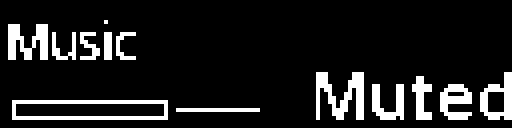
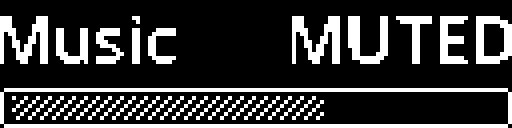
Document the screen style setting and the screen motion
Add [screen] style to the configuration reference, settings byte 20 to
the protocol, and a glossary entry. Replace the text that still said the
screen does not move, update the changelog, record the owner's pad test
of the screen on 2026-11-14, and draw the README pictures in the default
Classic style.

diff --git a/docs/testing.md b/docs/testing.md
@@ -9,7 +9,7 @@ For the definition of each term, see [glossary.md](glossary.md).
 | Test suite | Folder | What it checks | Runs in CI |
 |---|---|---|---|
 | Protocol tests | `protocol/` | The bytes of each message, encode and decode, the version format | Yes |
-| Firmware host tests | `pad-core/` | The firmware logic without hardware: key and knob decoding, the routing of keys and knobs, the keyboard report (`tests/keyboard.rs`), the idle rule, the lights and their motion (`tests/lights.rs`), the screens (`tests/oracle.rs` compares only the screens at rest), the flash guard and the order of its steps with a fake flash controller (`tests/flash.rs`), the name page and its write limit, the bootloader marks and their order | Yes |
+| Firmware host tests | `pad-core/` | The firmware logic without hardware: key and knob decoding, the routing of keys and knobs, the keyboard report (`tests/keyboard.rs`), the idle rule, the lights and their motion (`tests/lights.rs`), the screens (`tests/oracle.rs` compares the Classic screens at rest and the logo with the earlier code), the flash guard and the order of its steps with a fake flash controller (`tests/flash.rs`), the name page and its write limit, the bootloader marks and their order | Yes |
 | Firmware image check | `scripts/build-firmware.sh` | The vector table, the interrupts and the size of the firmware image | Yes |
 | App tests | `app/` | The config file, the trim rules, the key actions, the tap, hold and double-tap rules, the choice of the output device, the pad link, the settings rules | Yes |
 | Forbidden API test | `app/tests/forbidden_apis.rs` | The app source, `Cargo.toml` and `Cargo.lock` contain no hook, input injection, process access or network API | Yes |
@@ -152,7 +152,7 @@ This table records the tests on a pad. The only test pad is one KB16-01 rev2 wit
 "VERIFIED" means that a person did the action on the pad and saw the result.
 "NOT YET VERIFIED" means that nobody did the action on a pad. Automated tests can cover the logic.
 
-The test pad has the firmware of the internal version 0.1.0. At this time, nobody did a test of version 0.2.0 on a pad.
+On 2026-11-14, the pad owner used a build of the branch `screen-styles` (version 0.2.0 and the unreleased changes) on the test pad. The owner approved its screen. There is no written test record. Nobody did a test of the published version 0.2.0 on a pad.
 
 | Feature | How it was verified | Date | Firmware version | Status |
 |---|---|---|---|---|
@@ -160,6 +160,7 @@ The test pad has the firmware of the internal version 0.1.0. At this time, nobod
 | Mute row | Manual use on the pad. There is no written test record. | Before 2026-11-11 (no exact date in the record) | An earlier build, before the internal version 0.1.0 | VERIFIED |
 | Key light and screen output | Manual use on the pad. There is no written test record. | Before 2026-11-11 (no exact date in the record) | An earlier build, before the internal version 0.1.0 | VERIFIED |
 | Recovery with the top-left key at plug-in | Manual use on the pad. There is no written test record. | Before 2026-11-11 (no exact date in the record) | An earlier build, before the internal version 0.1.0 | VERIFIED |
+| The screen and its motion (readout, meters, page change, mute flash) | Manual use on the pad by the pad owner, who approved the screen. There is no written test record. | 2026-11-14 | A build of the branch `screen-styles` (0.2.0 and the unreleased changes) | VERIFIED |
 | Key pages | | | | NOT YET VERIFIED |
 | Physical knob order: knob 1 is the small knob on the left, knob 2 the small knob on the right, knob 3 the large knob | | | | NOT YET VERIFIED |
 | Knob hold to select one program (only with firmware 0.2.0 or later) | | | | NOT YET VERIFIED |
@@ -171,8 +172,9 @@ The test pad has the firmware of the internal version 0.1.0. At this time, nobod
 | Smooth key lights while audio plays (glide, gamma 2.4, dither) | | | | NOT YET VERIFIED |
 | Idle dim of the key lights to `idle_percent`, and the lights off after three times `lights_dim_min` | | | | NOT YET VERIFIED |
 | The new channel tints (ice white) and amber for mute | | | | NOT YET VERIFIED |
-| The new mixer screen: capital names, numbers, rails, the Focus pill, the microphone mark | | | | NOT YET VERIFIED |
+| The `numbers` screen style: capital names, numbers, rails, the Focus pill, the microphone mark | | | | NOT YET VERIFIED |
 | The readout in large digits, `Muted`, and the end stop at 0 and 100 | | | | NOT YET VERIFIED |
+| The **Screen style** select changes the screen of the pad at once | | | | NOT YET VERIFIED |
 | The volume on the meter lights for 1.3 seconds after a knob turn | | | | NOT YET VERIFIED |
 | Page 2 lights: dim, even meter lights, the mute row unchanged | | | | NOT YET VERIFIED |
 | The firmware sends only the changed columns of the screen: no tearing, no column that does not update | | | | NOT YET VERIFIED |

diff --git a/README.md b/README.md
@@ -28,14 +28,15 @@ It is not a driver, and it does not route audio. The app uses no keyboard hooks 
 ## What the pad shows
 
 The screen has 128 x 32 pixels. The firmware code drew these pictures (`pad-core/examples/render_oled.rs`), at four times the size.
-The pictures show the screens at rest. They do not show the fades of the screen.
+The pictures show the screens at rest, in the default screen style, `classic`. They do not show the motion of the screen.
+The styles `lean` and `numbers` are also available. See [the screen style](docs/configuration.md#screen-style).
 
 | Screen | When the pad shows it |
 |---|---|
 | ![The logo screen: the name KB16 in large letters](docs/images/oled-logo.png) | The logo with the name (default `KB16`). For 1.8 seconds after start, in keyboard mode, and after 45 seconds without activity. |
-| ![The mixer screen: four columns GAME, MUSIC, CHAT and WEB with the values 80, 55 and 30 and a rail under each; GAME is in an inverted pill, and CHAT shows MUTE](docs/images/oled-mixer.png) | The mixer screen, while the app runs. Each column shows a channel: the name, the volume as a number, and a rail that becomes thicker with the sound. An inverted name is the channel that has Focus. `MUTE` shows a muted channel. |
-| ![A readout: Music, 64 in large digits, and a bar](docs/images/oled-popup.png) | A readout for 1.3 seconds after a knob turn, a knob press or a mute: the name, the volume and a bar |
-| ![A muted readout: Music, Muted, and a hollow bar](docs/images/oled-muted.png) | The readout of a muted channel: `Muted` and a hollow bar |
+| ![The mixer screen: four columns GAME, MUSIC, CHAT and WEB, each with a meter of segments, a fader and the volume in percent (80 %, 55 % and 30 %); GAME is in a filled pill, and CHAT shows MUTE](docs/images/oled-mixer.png) | The mixer screen, while the app runs. Each column shows a channel: the name, a meter of the live sound, a fader and the volume in percent. A filled pill around a name shows the channel that has Focus. `MUTE` shows a muted channel. |
+| ![A readout: Music and 64% in large letters, and a bar in a frame](docs/images/oled-popup.png) | A readout for 1.3 seconds after a knob turn, a knob press or a mute: the name, the volume and a bar |
+| ![A muted readout: Music and MUTED in large letters, and a dotted bar in a frame](docs/images/oled-muted.png) | The readout of a muted channel: `MUTED` and a dotted bar |
 | ![A notice: Config loaded](docs/images/oled-notice.png) | A notice for 1.3 seconds, for example `Config loaded` |
 | ![The mixer screen with a short mark at the right edge](docs/images/oled-page2.png) | The mixer screen while page 2 is active. A short mark is at the right edge. The meter lights stay dim on page 2. |
 
@@ -162,7 +163,8 @@ The project did its tests on one pad (KB16-01 rev2, Windows 11). This table show
 | Knob hold to select one program in a channel | NOT YET VERIFIED | yes |
 | Knob tap to mute, knob double tap, and hold and double tap on keys | NOT YET VERIFIED | yes |
 | The app follows the Windows default output device, or uses a chosen device | NOT YET VERIFIED | yes (the logic only) |
-| Light and screen motion, the idle dim and off of the lights, and the new channel tints | NOT YET VERIFIED | yes (the logic only) |
+| Screen motion (a build of 2026-11-14, approved by the pad owner, with no written test record) | VERIFIED | yes (the logic only) |
+| The screen style setting, light motion, the idle dim and off of the lights, and the new channel tints | NOT YET VERIFIED | yes (the logic only) |
 | Volume balance (trim) rules, and Focus with several audio sessions of one program | NOT YET VERIFIED | yes |
 | The feel of Focus, Talk and Move | NOT YET VERIFIED | yes (the logic only) |
 | Idle rule (screen off and lights dim only after no sound and no touch) | NOT YET VERIFIED | yes |

diff --git a/docs/configuration.md b/docs/configuration.md
@@ -13,6 +13,7 @@ For the definition of each term, see [glossary.md](glossary.md).
 - [Edit the file by hand](#edit-the-file-by-hand)
 - [General settings](#general-settings)
 - [Key lights](#key-lights)
+- [Screen style](#screen-style)
 - [Audio output](#audio-output)
 - [Knobs](#knobs)
 - [Keys and pages](#keys-and-pages)
@@ -183,6 +184,7 @@ To add or remove a channel, edit the config file. See [Channels](#channels).
 | Control | Values | Config setting |
 |---|---|---|
 | **Name on the screen** | 1 to 10 letters, digits or spaces. Press Enter or leave the box to apply it. | `name` |
+| **Screen style** | Classic, Lean or Numbers | `[screen] style` |
 | **Light brightness** | A slider, 10 % to 100 % | `brightness` |
 | **Knob step** | 1, 2, 3, 5 or 10 % per click | `step` |
 | **Focus turns the others down to** | Almost silent (10 %), A quarter (25 %), Half (50 %), Three quarters (75 %) | `duck` |
@@ -195,6 +197,7 @@ To add or remove a channel, edit the config file. See [Channels](#channels).
 | **Open config file** | Opens `config.toml` in Notepad | |
 | **Open settings folder** | Opens the settings folder in Explorer | |
 
+The **Name on the screen**, **Screen style**, **Screen shift** and **Screen off after** controls are on the **Screen** card.
 The **Knob step**, **Focus turns the others down to** and **Output device** controls are on the **Sound** card.
 
 The window reads the list of output devices when it opens and when you open the list.
@@ -267,6 +270,25 @@ The lights fade down in 0.7 seconds. They fade off in 2 seconds. They come back 
 For the idle rule, see [how-it-works.md](how-it-works.md#idle-rule).
 
 Firmware before version 0.2.0 ignores `idle_percent`. It also uses an earlier brightness curve, so a `brightness` value looks a little different with it. Nobody did a test of these values on a pad.
+
+## Screen style
+
+The `[screen]` table is optional. It sets how the pad draws the mixer screen and the readout.
+
+```toml
+[screen]
+style = "classic"
+```
+
+| Setting | Default | Values | Meaning |
+|---|---|---|---|
+| `style` | `"classic"` | `"classic"`, `"lean"`, `"numbers"` | The screen style. For a description of each style, see [how-it-works.md](how-it-works.md#screens). |
+
+The app ignores upper case and lower case, and spaces before and after the word. A file without `[screen]` uses `"classic"`.
+A different word, or a value that is not in quotes, is an error.
+
+The pad changes to the new style at once, without motion.
+The published firmware 0.2.0 ignores `style` and always draws its own screen. Nobody did a test of this case on a pad.
 
 ## Audio output
 
@@ -617,6 +639,9 @@ The fourth column has no channel. Its `mute` and `focus` keys would do nothing. 
 | `[keys_hold] row1 key 2: a hold or double tap needs a key whose tap is mute, open: or none` | The tap of that key in `[keys]` is a different action. |
 | `[keys_double] row1: a list of 4 keys` | The row is not a list. |
 | `[lights] idle_percent: a whole number from 0 to 100` | The value is negative, a fraction, or in quotes. |
+| `[screen] style = "...": "classic", "lean" or "numbers"` | The style is not a known word. |
+| `[screen] style: text in quotes, such as "none"` | The style is not in quotes. |
+| `[screen] is not a table` | `screen` has a value that is not a table. |
 | `[audio] output = "...": "default" or a device id from the settings window` | The value is not `"default"` and not a device ID. |
 | `[knob_press] is not a table` | The name of a table has a value that is not a table. |
 | `[knob_press.knob1] tap: text in quotes, such as "none"` | The value is not in quotes. |

diff --git a/CHANGELOG.md b/CHANGELOG.md
@@ -9,6 +9,7 @@ The format follows [Keep a Changelog](https://keepachangelog.com/en/1.1.0/). The
 
 - A CI job `msrv` checks each crate with the oldest Rust version that its `Cargo.toml` gives in `rust-version`.
 - A weekly workflow runs `cargo deny` for the four crates on `main`, so a new advisory shows without a push.
+- The setting `[screen] style` and the **Screen style** select on the **Pad** tab choose the screen style. The app sends it in byte 20 of the settings message. Firmware 0.2.0 ignores this byte.
 
 ### Fixed
 
@@ -19,13 +20,14 @@ The format follows [Keep a Changelog](https://keepachangelog.com/en/1.1.0/). The
 
 ### Changed
 
-- The mixer screen is new: capital names, the volume as a number, and a thin rail that becomes thicker with the sound. A short mark at the left edge shows a muted microphone.
-- The readout shows the volume in large digits, or `Muted` with a hollow bar. A turn past 0 or 100 shows a short end stop.
-- The screen does not move between its states. A readout, a notice, a page change and a mute show in the frame of their message.
-- The screen fades out in 0.7 seconds after the screen-off limit, together with the key lights. It comes on again at full contrast without a fade.
+- The screen has three styles: `classic` (the default), `lean` and `numbers`. `classic` has the look of the screen of version 0.2.0. `numbers` shows capital names, the volume as a number, and a thin rail that becomes thicker with the sound.
+- All styles use the same motion. A readout pushes in and out, its bar glides to the value, the meters glide, and a page change slides the screen. In `classic` and `lean`, a mute change inverts the name for 0.2 seconds.
+- A turn past 0 or 100 shows a short end stop on the readout bar.
+- The screen fades out in 0.7 seconds after the screen-off limit, together with the key lights. It fades in again in 0.15 seconds.
 - The firmware sends only the changed columns of the screen. A new readout draws at once.
 - After a volume change, the meter lights of that channel show its volume for 1.3 seconds. On page 2, the meter lights stay dim and even.
-- The pictures in `docs/images/` show the new screens. A new picture shows a muted readout.
+- The pictures in `docs/images/` show the `classic` screens at rest. A new picture shows a muted readout.
+- `pad-core/examples/render_oled.rs` draws each style into a temporary folder, not into `docs/images/`.
 - The documents say that a local build of the firmware does not give the bytes of the CI build. To examine a release, use `SHA256SUMS` and the attestation.
 
 ## [0.2.0] - 2026-11-13

diff --git a/docs/glossary.md b/docs/glossary.md
@@ -38,7 +38,7 @@ The documents follow ASD-STE100 Simplified Technical English. STE lets a documen
 | knob target | What a knob controls: a channel, one program in a channel, the master volume, the microphone, the foreground program, or the channel that has Focus. |
 | master volume | The volume of the output device: the default output device of Windows, or the device in `[audio] output`. |
 | output device | A speaker or a headset that Windows plays sound on. By default, the app uses the default output device of Windows and follows it when it changes. |
-| meter | The live level that the pad shows for a channel: on the screen, the thick part of the rail, and on the key lights. |
+| meter | The live level that the pad shows for a channel: on the screen, a meter in each column (the thick part of the rail in the `numbers` style), and on the key lights. |
 | audible | A program plays sound above approximately −40 dBFS for at least 1 second. See [how-it-works.md](how-it-works.md#idle-rule). |
 
 ## Keys and actions
@@ -80,6 +80,7 @@ The documents follow ASD-STE100 Simplified Technical English. STE lets a documen
 | popup | A message that shows text on the screen for 1.3 seconds. A popup is a readout or a notice. |
 | readout | A popup with a name, a value and a bar, for example after a knob turn. |
 | notice | A popup with text only, for example `Open failed`. |
+| screen style | How the pad draws the mixer screen and the readout: `classic` (the default), `lean` or `numbers`. See [configuration.md](configuration.md#screen-style). |
 | activity | A key press, a knob turn, or audible sound. A popup is not activity. |
 | idle | The state after some minutes without activity. The screen goes off and the key lights dim. After a longer time without activity, the key lights go off. |
 | logo name | The name on the logo screen, 1 to 10 characters. The default is `KB16`. The pad keeps it in the name page. |

diff --git a/docs/roadmap.md b/docs/roadmap.md
@@ -12,8 +12,8 @@ The order and the content can change.
 ## Done
 
 - **A release with the new firmware.** Version 0.2.0 has the firmware that sends knob releases. Its version lets `--check` tell it from the internal version 0.1.0.
-- **Motion on the pad, and knob gestures.** The key lights move smoothly along set curves, not with spring physics. The screen changes in one frame and fades with the lights. A knob has a tap, a hold and a double tap. The app follows the Windows default output device. See [how-it-works.md](how-it-works.md#screen-changes).
-  Nobody did a test of these functions on a pad. For the knob hold, the pad must have firmware 0.2.0 or later.
+- **Motion on the pad, and knob gestures.** The key lights move smoothly along set curves, not with spring physics. The screen has three styles. Its readouts, meters and pages move, and it fades with the lights. A knob has a tap, a hold and a double tap. The app follows the Windows default output device. See [how-it-works.md](how-it-works.md#screen-changes).
+  On 2026-11-14, the pad owner approved the screen motion on the pad. Nobody did a test of the other functions on a pad. For the knob hold, the pad must have firmware 0.2.0 or later.
 - **A new look for the settings window.** The window stays a plain Win32 window, with a new style: dark and light themes, smooth rounded controls and short animations. See [design/settings-ui.md](design/settings-ui.md).
   The owner measured a GPU user-interface framework for the window and rejected it.
   With that framework, the app file was approximately 15 MB. It used approximately 95 MB of memory. The window opened after approximately 10 seconds.

diff --git a/docs/how-it-works.md b/docs/how-it-works.md
@@ -129,7 +129,7 @@ In `numbers`, an inverted name is the channel that has Focus. Each rail shows th
 A short vertical mark at the left edge means that the microphone is muted. A short vertical mark at the right edge means that page 2 is active.
 The pad does not know which channel is the microphone, so the microphone mark shows for each mute of the microphone.
 
-For a muted channel, the bar of the readout is hollow.
+For a muted channel, the readout shows a dotted bar in `classic` and a hollow bar in `lean` and `numbers`.
 A knob turn at 0 or 100 cannot change the volume. Then a short end stop shows at that end of the bar for 0.1 seconds.
 
 ### Screen changes
@@ -148,7 +148,7 @@ All three styles use the same motion. These times are in `pad-core/src/oled.rs`:
 - When the screen comes on again, the firmware sends the full picture first. Then it starts the screen at zero contrast, and the contrast increases to full in 0.15 seconds, together with the key lights. Thus no previous picture or noise shows.
 - The logo comes in from the left in 0.9 seconds, after start and when the screensaver starts. Then its streak crosses it one time. One period of its wave is approximately 9 seconds.
 
-The unit tests in `pad-core/src/oled.rs` check these motions frame by frame. The pictures in `docs/images/` show the screens at rest. Nobody did a visual check of these changes on a pad.
+The unit tests in `pad-core/src/oled.rs` check these motions frame by frame. The pictures in `docs/images/` show the `classic` screens at rest. On 2026-11-14, the pad owner used this motion on the pad and approved it. There is no written test record.
 
 ### Light motion
 

diff --git a/docs/protocol.md b/docs/protocol.md
@@ -104,11 +104,13 @@ The pad shows a popup for 1.3 seconds. For the idle timers, a popup is not activ
 | 17 | `screen_off_min` | Minutes without activity before the screen goes off. 0 = pad default (10). 255 = never. |
 | 18 | `lights_dim_min` | Minutes without activity before the lights dim. 0 = pad default (10). 255 = never. |
 | 19 | `idle_led_percent` | Light that the dimmed lights keep, in percent of the usual light (1–100). 0 = pad default (6). |
+| 20 | `screen_style` | Screen style: 0 = Classic, 1 = Lean, 2 = Numbers. The pad uses a value above 2 as 0. |
 
 The app sends `255` for a setting of `0` (no timer) in the config file. It sends at most `240` minutes, and a brightness of at least `1`.
 The pad uses an `idle_led_percent` above 100 as 100.
 
 Byte 19 came in version 0.2.0. Earlier firmware ignores the byte. An earlier app sends `0`, so the pad uses its default.
+Byte 20 came after version 0.2.0. Firmware 0.2.0 ignores the byte. An app of version 0.2.0 sends `0`, so the pad uses Classic.
 
 ### `0x21` FRAME
 

diff --git a/docs/design/settings-ui.md b/docs/design/settings-ui.md
@@ -83,6 +83,8 @@ The window does not grow. When a tab must hold more controls, the layout moves o
   It shows only on the Keys tab.
 - **Channels**: one card for each channel.
 - **Pad**: four cards: **Screen**, **Sound**, **Lights** and **System**.
+  **Screen** holds the logo name, the screen style, the screen shift and the screen-off time.
+  The **Screen** card (376 x 164 px) and the **Sound** card (376 x 132 px, at y 228) have a bottom margin of 4 px.
   **Sound** holds the knob step, the Focus level and the output device.
   **Lights** holds the brightness, the dim time and the idle level (**Dim lights to**).
 
